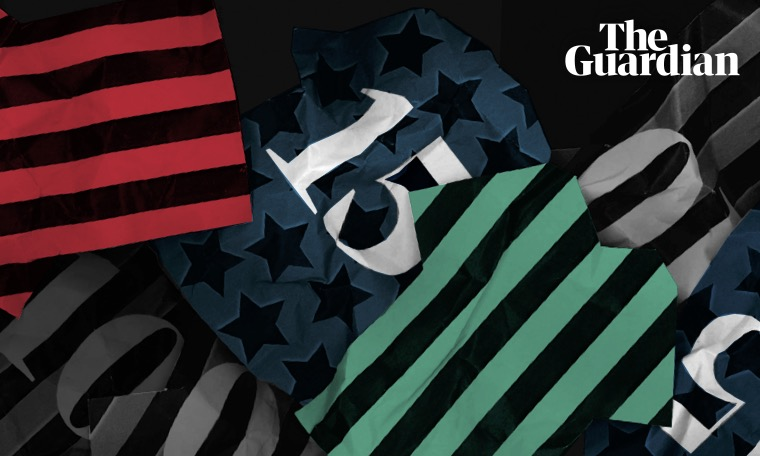
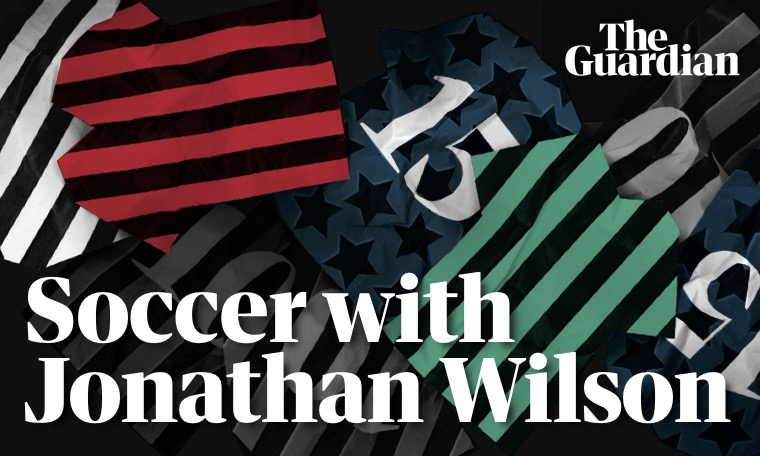
Update US soccer newsletter image and css

diff --git a/src/client/components/ConsentCard.tsx b/src/client/components/ConsentCard.tsx
@@ -1,20 +1,30 @@
-import React, { FunctionComponent } from 'react';
 import { SerializedStyles, css } from '@emotion/react';
 import {
-	CheckboxGroup,
+	between,
+	body,
+	brand,
+	from,
+	headline,
+	neutral,
+	space,
+	textSans,
+} from '@guardian/source-foundations';
+import {
 	Checkbox,
+	CheckboxGroup,
 	SvgEnvelope,
 } from '@guardian/source-react-components';
-import {
-	brand,
-	space,
-	headline,
-	textSans,
-	body,
-	neutral,
-	from,
-	between,
-} from '@guardian/source-foundations';
+import React, { FunctionComponent } from 'react';
+
+// DELETE THIS IF THE US SOCCER NEWSLETTER IMAGE IS NO LONGER USED
+const usSoccerImageCssOverrides = (id: string) => {
+	if (id === '6030') {
+		return css`
+			background-size: contain;
+			background-color: black;
+		`;
+	}
+};
 
 const image = (imagePath?: string, imagePosition?: string) => {
 	const base = css`
@@ -233,7 +243,14 @@ export const ConsentCard: FunctionComponent<ConsentCardProps> = ({
 			]}
 		>
 			<div css={descriptionBlock(noTopBorderMobile)}>
-				{!noImage && <div css={image(imagePath, imagePosition)} />}
+				{!noImage && (
+					<div
+						css={[
+							image(imagePath, imagePosition),
+							usSoccerImageCssOverrides(id),
+						]}
+					/>
+				)}
 				<div css={[infoGroup(noImage), ieFlexOverflowFix]}>
 					<TitleHeadingTag
 						css={[titleHeading(noImage), `color: ${highlightColor}`]}

diff --git a/src/client/models/Newsletter.ts b/src/client/models/Newsletter.ts
@@ -33,7 +33,6 @@ export const NEWSLETTER_IMAGE_POSITIONS: Record<string, string> = {
 	[Newsletters.FIRST_EDITION_UK]: 'bottom left',
 	[Newsletters.DOWN_TO_EARTH]: 'bottom left',
 	[Newsletters.FIRST_THING_US]: 'bottom left',
-	[Newsletters.SOCCER_US]: 'bottom right',
 	[Newsletters.HEADLINES_US]: 'bottom left',
 	[Newsletters.MORNING_MAIL_AU]: 'bottom left',
 	[Newsletters.AFTERNOON_UPDATE_AU]: 'bottom left',
